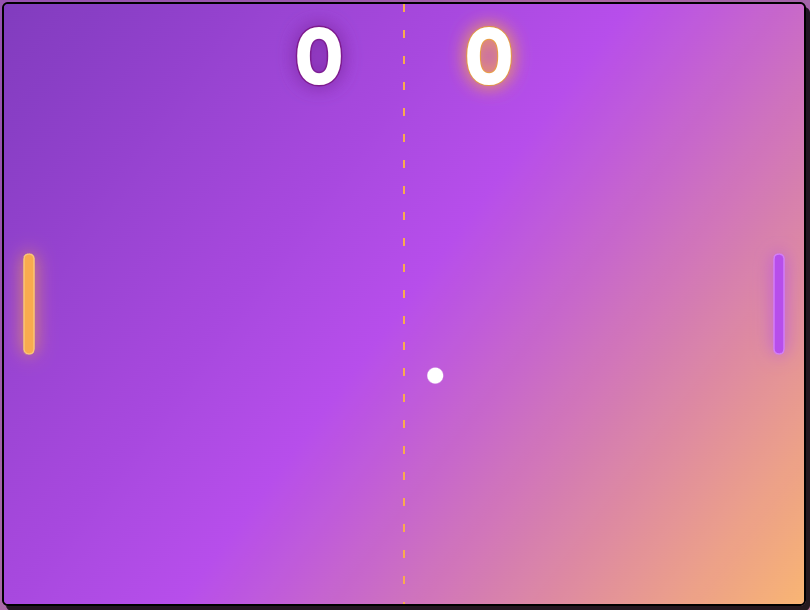
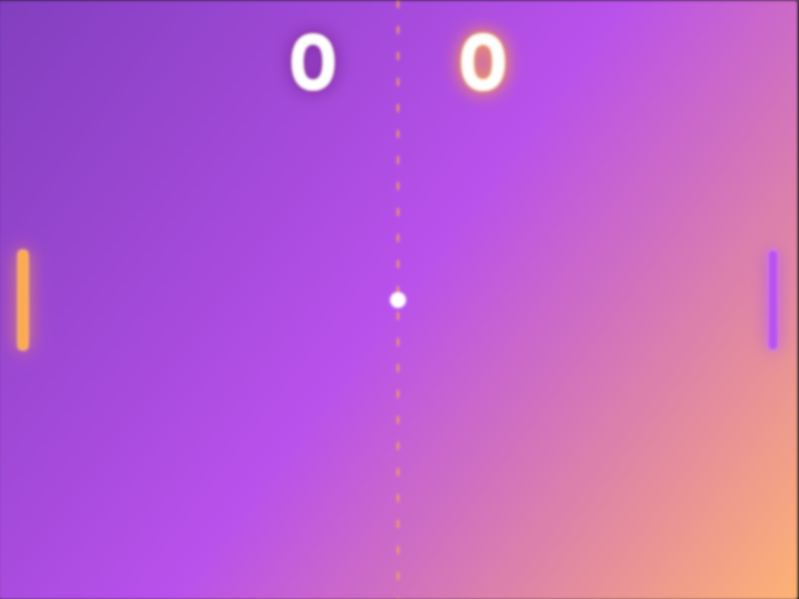
removed user.name

diff --git a/src/client/pages/JoinPage.ts b/src/client/pages/JoinPage.ts
@@ -16,7 +16,7 @@ let isrendered = true;
 async function getUsername() {
   try {
     const user = await UserService.getCurrentUser();
-    return user?.name || "";
+    return user?.displayName || "";
   } catch {
     return "";
   }
@@ -44,7 +44,7 @@ export async function renderJoinPage(params: { gameId: string }) {
   // Only render UI if user is authenticated
   try {
   AuthComponent.checkAndHandleDisplayName();
-  SidebarComponent.render({ userName: user?.displayName || '', showStats: false, showBackHome: true });
+  SidebarComponent.render({ userName: user?.displayName || '', avatarUrl: user.avatar, showStats: false, showBackHome: true });
   BackgroundComponent.applyNormalGradientLayout();
   } catch(error) {
 	CommonComponent.handleAuthError();
@@ -63,13 +63,13 @@ export async function renderJoinPage(params: { gameId: string }) {
   const myUsername = await getUsername();
 
   // --- Etats de la partie ---
-  // let playerId: number | 'spectator' | null = null;
-  let hostUsername = '';
-  let guestUsername = '';
+  let playerId: number | 'spectator' | null = null;
+  let hostUsername = 'Player 1';
+  let guestUsername = 'Player 2';
 
-  let playerId: string | 'spectator' | null = null;
-  if (playerId === 1) hostUsername = user?.name;
-  if (playerId === 2) guestUsername = user?.name;
+  // let playerId: string | 'spectator' | null = null;
+  if (playerId === 1) hostUsername = user?.displayName;
+  if (playerId === 2) guestUsername = user?.displayName;
 
   // --- Attente de la websocket ---
   const matchTitle = `${hostUsername} vs ${guestUsername}`;

diff --git a/src/client/pages/GamePage.ts b/src/client/pages/GamePage.ts
@@ -93,6 +93,7 @@ export async function GamePageCheck() {
       // Only render sidebar and main content if authentication succeeds
       SidebarComponent.render({
         userName: user.displayName,
+        avatarUrl: user.avatar,
         showStats: true,
         showSettings: true,
         showBackHome: false
@@ -122,7 +123,7 @@ export async function renderPongGamePage() {
   const matchTitle = `${leftPlayer} vs ${rightPlayer}`;
 
   // layout de base
-  SidebarComponent.render({ userName: user.name, showStats:true, showBackHome:true });
+  SidebarComponent.render({ userName: user.displayName, avatarUrl: user.avatar, showStats:true, showBackHome:true });
   BackgroundComponent.applyNormalGradientLayout();
   GameSettingsComponent.render('initial');
 
@@ -135,7 +136,7 @@ export async function renderPongGamePage() {
   const previewImg = document.createElement('img');
   previewImg.src = '../assets/gameimg/screen-pongGame.png';
   previewImg.alt = 'Pong preview';
-  previewImg.className = 'rounded-md w-[800px] h-[610px] mt-15 opacity-70 blur-xs transition-all';
+  previewImg.className = 'w-[800px] h-[610px] mt-15 opacity-70 border-2 border-black rounded-md shadow-[4.0px_5.0px_0.0px_rgba(0,0,0,0.8)] transition-all';
   gameContainer.appendChild(previewImg);
 
   createGameControls(

diff --git a/src/server/controllers/user.controller.ts b/src/server/controllers/user.controller.ts
@@ -17,7 +17,7 @@ export class UserController {
 			const userData = {
 				users: users.map(user => ({
 					id: user.id,
-					name: user.name,
+					name: user.displayName,
 					displayName: user.displayName,
 					created_at: user.created_at,
 					updated_at: user.updated_at
@@ -70,7 +70,7 @@ export class UserController {
 
 			const userData = {
 				id: user.id,
-				name: user.name,
+				name: user.displayName,
 				displayName: user.displayName,
 				avatar: avatarUrl,
 				created_at: user.created_at,
@@ -109,7 +109,7 @@ export class UserController {
 
 			const userData = {
 				id: updatedUser.id,
-				name: updatedUser.name,
+				name: updatedUser.displayName,
 				displayName: updatedUser.displayName,
 				created_at: updatedUser.created_at,
 				updated_at: updatedUser.updated_at

diff --git a/src/client/pages/SettingsPage.ts b/src/client/pages/SettingsPage.ts
@@ -36,7 +36,7 @@ export async function SettingsPage(): Promise<void> {
 		});
 
 		// Render the main content with user data
-		await SettingsRender.renderMainContent(user.displayName || user.name, user.avatar);
+		await SettingsRender.renderMainContent(user.displayName || user.displayName, user.avatar);
 
 	} catch (error) {
 		console.error('Failed to fetch user data:', error);

diff --git a/src/client/components/sidebar.component.ts b/src/client/components/sidebar.component.ts
@@ -11,7 +11,7 @@ export interface SidebarOptions {
 }
 
 export class SidebarComponent {
-  static render(opts: SidebarOptions): HTMLDivElement {
+  static render(opts: SidebarOptions) {
     const { userName, avatarUrl, showStats = false, showBackHome = false, showSettings = false } = opts;
     const sidebar = document.createElement("nav");
     sidebar.className = `

diff --git a/src/client/renders/home.render.ts b/src/client/renders/home.render.ts
@@ -16,7 +16,7 @@ export class HomeRender {
     try {
       const user = await UserService.getCurrentUser();
       // loader.remove();
-      this.renderMainContent(container, user.name);
+      this.renderMainContent(container, user.displayName);
     } catch {
       // loader.remove();
       this.handleAuthError(container);

diff --git a/src/client/pages/TournamentPage.ts b/src/client/pages/TournamentPage.ts
@@ -18,7 +18,8 @@ export async function renderTournamentPage() {
   // Sidebar et BG
   const user = await UserService.getCurrentUser();
   SidebarComponent.render({
-    userName: user.name,
+    userName: user.displayName,
+    avatarUrl: user.avatar,
     showStats: true,
     showBackHome: true
   });

diff --git a/src/server/services/auth.service.ts b/src/server/services/auth.service.ts
@@ -92,7 +92,7 @@ export class AuthService {
 		}
 
 		const issuer = 'Transcendence';
-		const label = `${issuer}:${user.name}`;
+		const label = `${issuer}:${user.displayName}`;
 		const secret = speakeasy.generateSecret({
 			name: label,
 			issuer: issuer,
